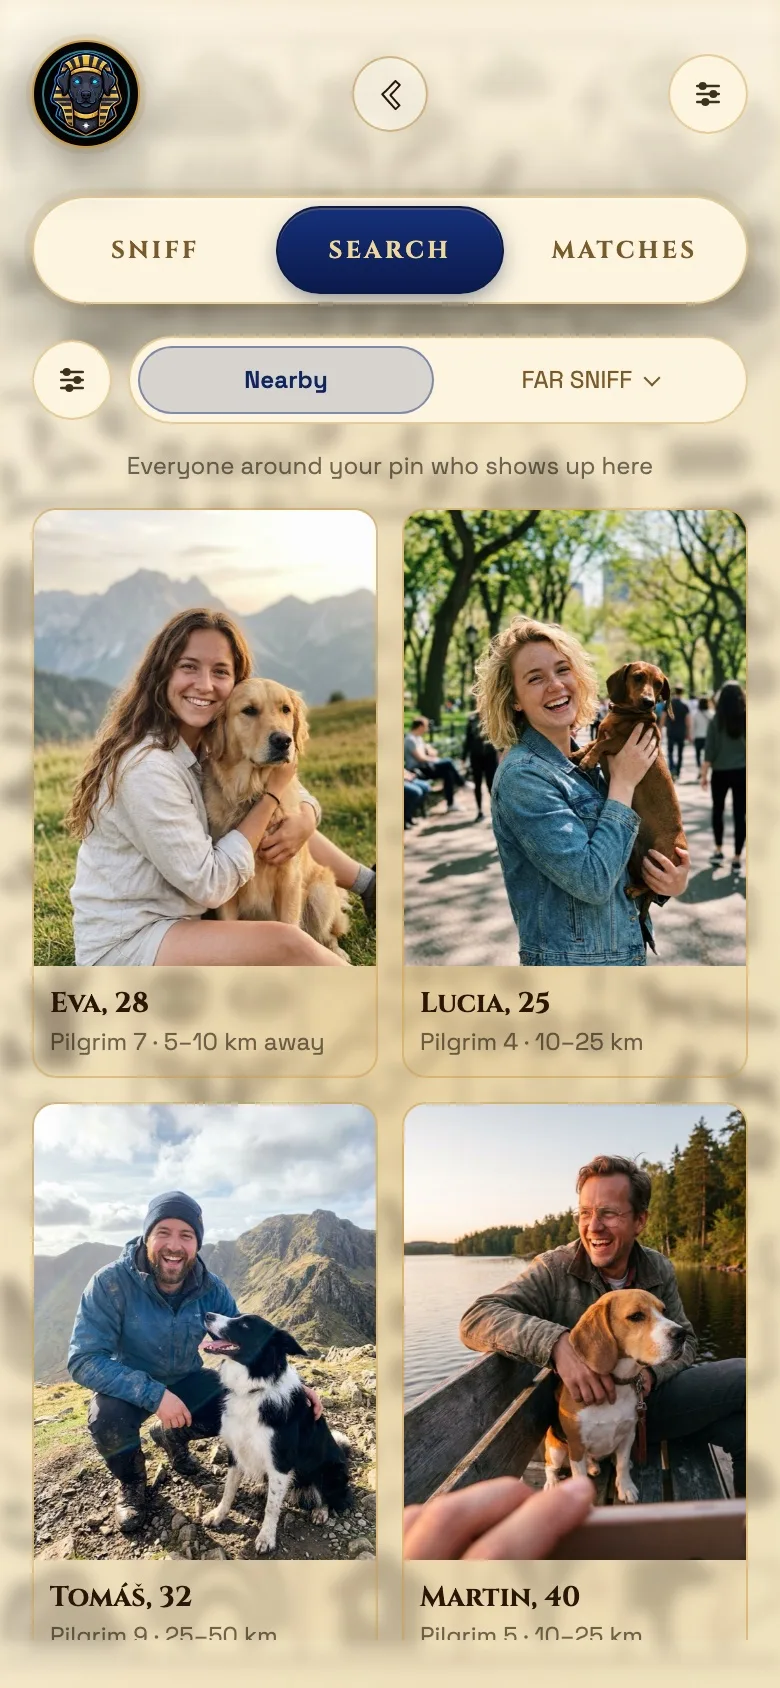
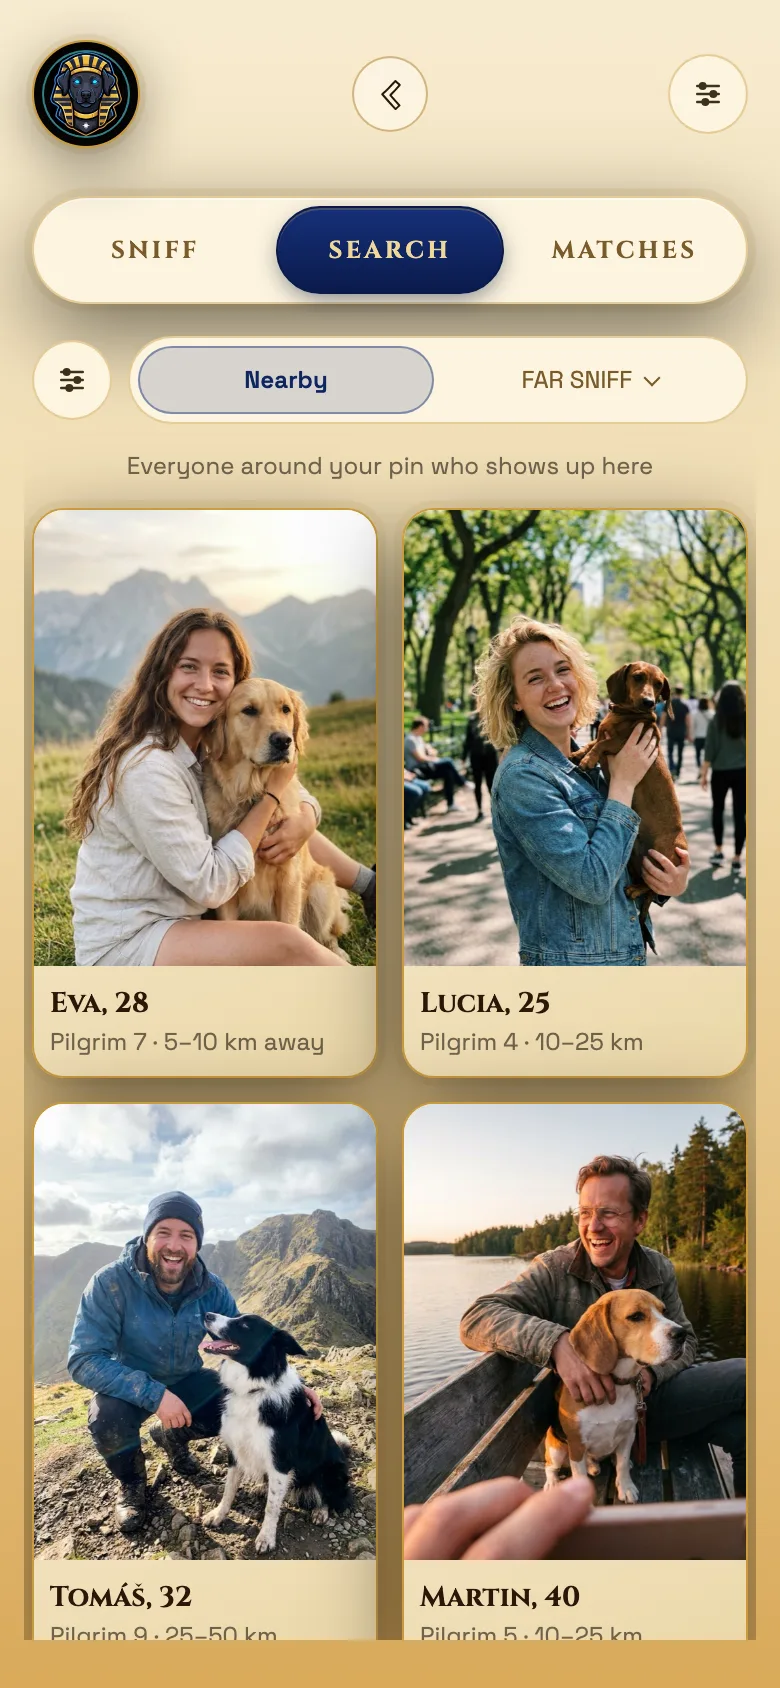
ONEPAGE SNIFFER snímky so zlatým súmrakom (v=10)

diff --git a/src/components/lab/FilmApps.tsx b/src/components/lab/FilmApps.tsx
@@ -86,7 +86,7 @@ const bn = (id: string, n = 4) => Array.from({ length: n }, (_, i) => `onepage.a
 /** Poradie = poradie v karuseli. Matej: *„dog id/profil, sniffer, dogtrips,
  *  AInubis a pomoc/možnosti… celkovo 4 obrazovky"*, 27. 9. doplnená piata. */
 /** Snímka z `public/images/onepage/apps/`. Pri prefotení zvýš `v` (cache — Matej: „nevidím to na lokáli"). */
-const img = (f: string) => `/images/onepage/apps/${f}.webp?v=9`;
+const img = (f: string) => `/images/onepage/apps/${f}.webp?v=10`;
 /* DETAIL = hlavná snímka z telefónu + výber z nákresu `plany/nakres-clenstvo-screeny-2026-10-05/`
    (Matej 5. 10. 2026: *„máš to vybraté — aplikuj to"*). Komunita na OSTRÝCH číslach z LIVE,
    SNIFFER s fiktívnymi ľuďmi (Eva…) a správami len na snímke. */
